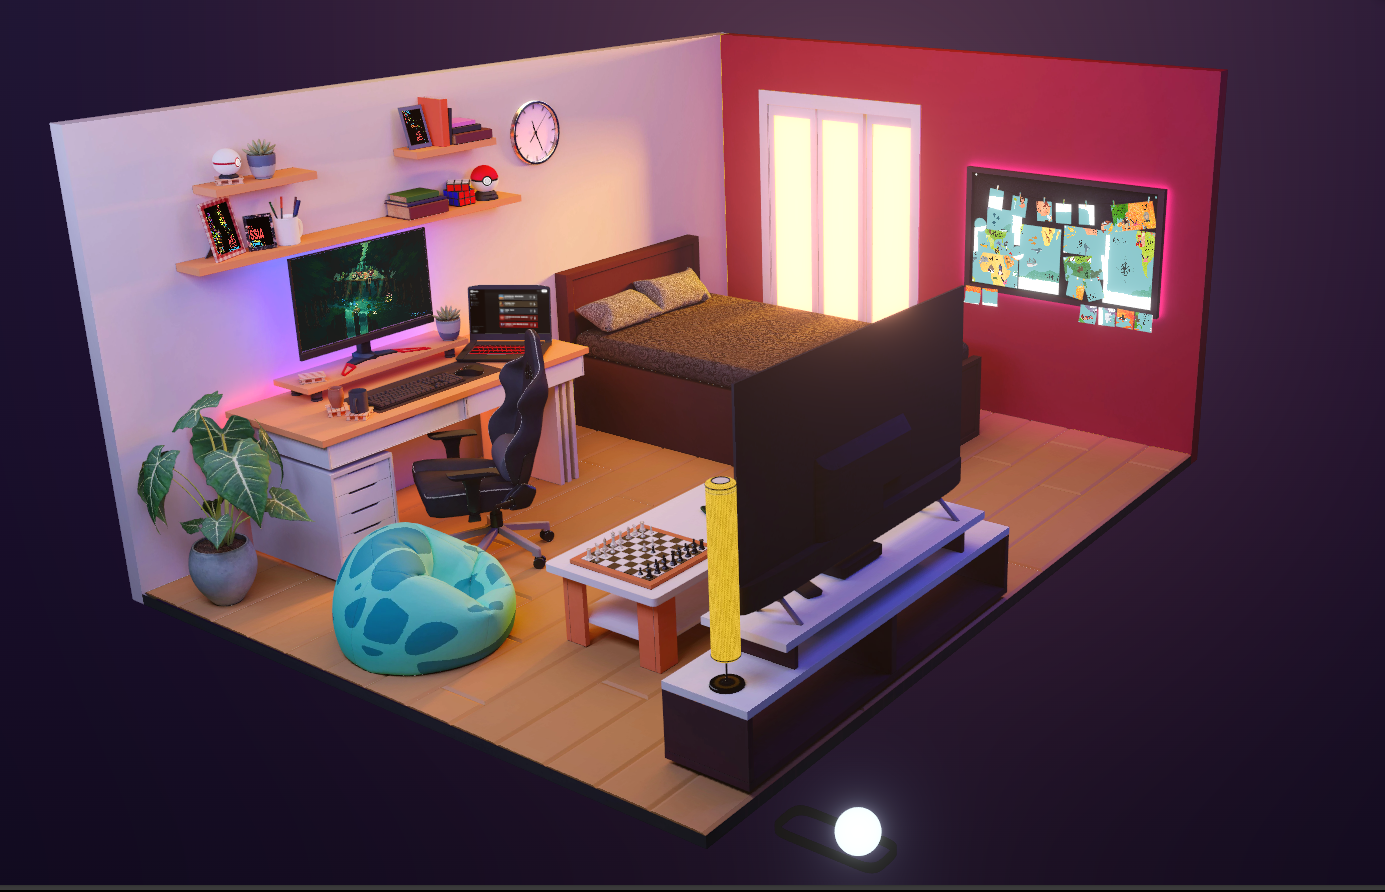
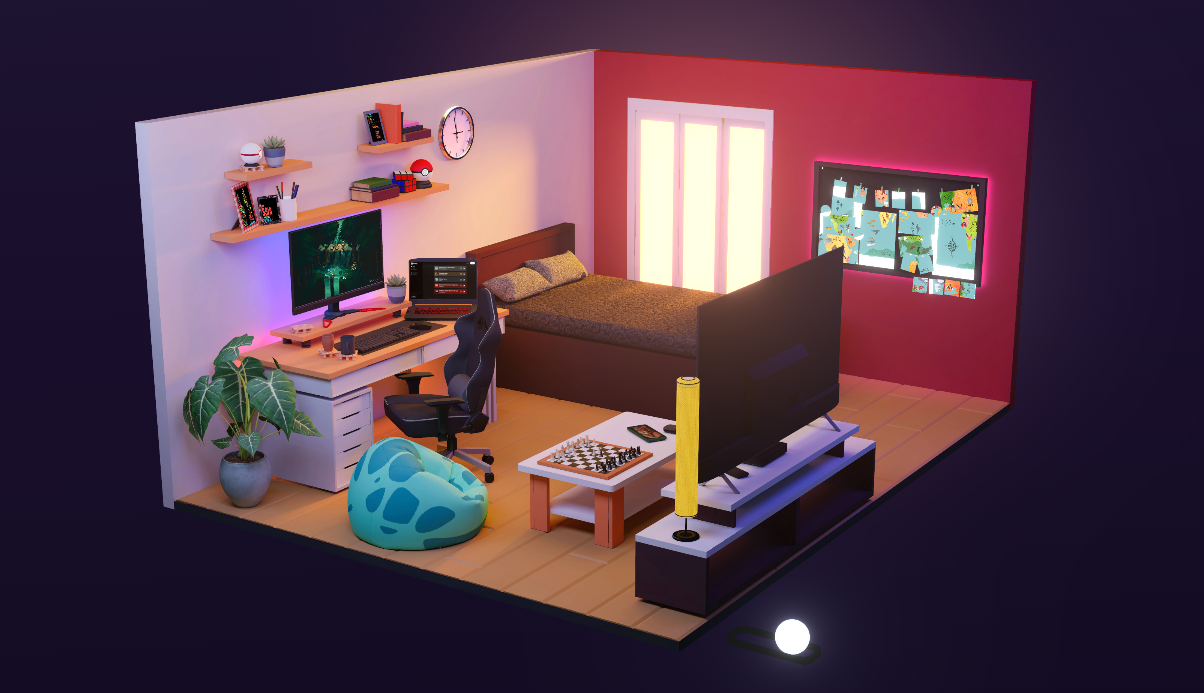
add vivekspace this project

diff --git a/src/Components/Sections/ProjectTabs.js b/src/Components/Sections/ProjectTabs.js
@@ -1,6 +1,7 @@
 import React, { useEffect, useState } from "react";
 import axios from "axios";
 import podcast from "../Project_image/podcast.png";
+import vivekspace from "../Project_image/vivekspace.png";
 import Windows from "../Project_image/homeWindows.png";
 import mac from "../Project_image/finderMAC.png";
 import vivekroom from "../Project_image/Vivek's_Room.png";
@@ -19,6 +20,16 @@ const ProjectTabs = () => {
   const projects = [
     {
       id: "manual_project",
+      name: "Vivek Space",
+      image: vivekspace,
+      liveLink: "https://vivekspace.vercel.app/",
+      description:
+      "A showcase of rooms and spaces I’ve built, blending design, functionality, and craftsmanship. Each project reflects my commitment to quality and creating environments that inspire.",
+      imageWidth: 400,
+      imageHeight: 200,
+    },
+    {
+      id: "manual_project",
       name: "MAC OS",
       image: mac,
       liveLink: "https://vivekmac.vercel.app/",
@@ -27,6 +38,7 @@ const ProjectTabs = () => {
       imageWidth: 400,
       imageHeight: 200,
     },
+    
     {
       id: "manual_project",
       name: "Windows OS",
